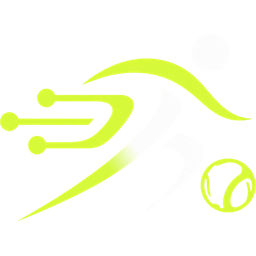
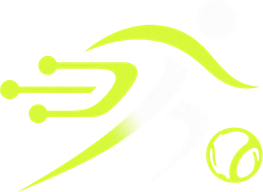
Estrela não desmarca ao tocar de novo; quem chega pelo link reaproveita o cadastro pelo WhatsApp
Claude-Session: https://claude.ai/code/session_01HtYkLJfd4uep9dkMNWeD7S

diff --git a/src/app/p/[gid]/partidas/actions.ts b/src/app/p/[gid]/partidas/actions.ts
@@ -16,6 +16,7 @@ import { TEAM_PRESETS, drawTeams as runDraw, playerStrength, type DrawMode } fro
 import { groupStats } from "@/lib/stats";
 import { chargeMatchPlayers } from "@/lib/finance";
 import { ALL_TAGS } from "@/lib/ratings";
+import { findOrCreateGuestPlayer } from "@/lib/guest";
 
 const attendance = z.enum(["CONFIRMED", "DECLINED", "MAYBE", "PENDING", "WAITLIST"]);
 
@@ -375,9 +376,9 @@ export async function answerJoinRequest(gid: string, mid: string, rid: string, a
   if (!approve) {
     await db.joinRequest.update({ where: { id: rid }, data: { status: "REJECTED" } });
   } else {
-    const player = await db.player.create({ data: { groupId: gid, name: req.name, phone: req.phone, billingType: "PER_MATCH" } });
-    await setAttendance(mid, player.id, "CONFIRMED");
-    await db.joinRequest.update({ where: { id: rid }, data: { status: "APPROVED", playerId: player.id } });
+    const playerId = await findOrCreateGuestPlayer(gid, req.name, req.phone);
+    await setAttendance(mid, playerId, "CONFIRMED");
+    await db.joinRequest.update({ where: { id: rid }, data: { status: "APPROVED", playerId } });
   }
   refresh(gid);
 }

diff --git a/src/app/j/[code]/actions.ts b/src/app/j/[code]/actions.ts
@@ -5,7 +5,7 @@ import { redirect } from "next/navigation";
 import { z } from "zod";
 import { db } from "@/lib/db";
 import { setAttendance } from "@/lib/attendance";
-import { forgetPlayer, rememberPlayer } from "@/lib/guest";
+import { findOrCreateGuestPlayer, forgetPlayer, rememberPlayer } from "@/lib/guest";
 import { notifyGroupOrganizers } from "@/lib/notify";
 import { type ActionState } from "@/lib/actions";
 
@@ -41,8 +41,7 @@ export async function guestRespond(code: string, _: ActionState, form: FormData)
       await notifyGroupOrganizers(match.groupId, { type: "JOIN_REQUEST", title: `🙋 ${n.data.name} pediu vaga na partida`, link: `/p/${match.groupId}/partidas/${match.id}` });
       redirect(`/j/${code}?pedido=1`);
     }
-    const p = await db.player.create({ data: { groupId: match.groupId, name: n.data.name, phone: n.data.phone ?? null, billingType: "PER_MATCH" } });
-    playerId = p.id;
+    playerId = await findOrCreateGuestPlayer(match.groupId, n.data.name, n.data.phone);
   }
   await setAttendance(match.id, playerId, s.data);
   await rememberPlayer(match.groupId, playerId);

diff --git a/src/components/Logo.tsx b/src/components/Logo.tsx
@@ -3,14 +3,15 @@ import { APP_NAME } from "@/lib/actions";
 
 /** Símbolo do Jogus Connect (jogador com a bola). */
 export function LogoMark({ size = 28, className = "" }: { size?: number; className?: string }) {
-  return <img src="/brand/mark.png" width={size} height={size} alt="" aria-hidden className={`shrink-0 ${className}`} />;
+  // a arte é mais larga que alta (681 × 498)
+  return <img src="/brand/mark.png" width={Math.round(size * 1.37)} height={size} alt="" aria-hidden className={`shrink-0 ${className}`} />;
 }
 
 /** Cabeçalho: símbolo + nome, no estilo do logo ("JO" em verde-limão). */
 export function Logo({ className = "" }: { className?: string }) {
   return (
     <span className={`inline-flex items-center gap-2 ${className}`} aria-label={APP_NAME}>
-      <LogoMark size={34} />
+      <LogoMark size={30} />
       <span className="flex flex-col leading-none" aria-hidden>
         <span className="font-display text-xl font-bold uppercase tracking-[0.04em]">
           <span className="text-accent">Jo</span>gus

diff --git a/src/lib/guest.ts b/src/lib/guest.ts
@@ -26,3 +26,18 @@ export async function rememberPlayer(groupId: string, playerId: string) {
 export async function forgetPlayer(groupId: string) {
   (await cookies()).delete(cookieName(groupId));
 }
+
+/** Quem chega pelo link ou pela busca: reaproveita o jogador com o mesmo WhatsApp, senão cria. */
+export async function findOrCreateGuestPlayer(groupId: string, name: string, phone?: string | null) {
+  const digits = phone?.replace(/\D/g, "") ?? "";
+  if (digits.length >= 8) {
+    const same = await db.player.findMany({ where: { groupId, phone: { not: null } }, select: { id: true, phone: true, active: true } });
+    const hit = same.find((p) => p.phone!.replace(/\D/g, "").endsWith(digits.slice(-8)));
+    if (hit) {
+      if (!hit.active) await db.player.update({ where: { id: hit.id }, data: { active: true } });
+      return hit.id;
+    }
+  }
+  const p = await db.player.create({ data: { groupId, name, phone: phone || null, billingType: "PER_MATCH" } });
+  return p.id;
+}

diff --git a/src/components/StarInput.tsx b/src/components/StarInput.tsx
@@ -17,7 +17,7 @@ export function StarInput({ name, label, defaultValue, size = 28, required }: { 
             role="radio"
             aria-checked={v === i}
             aria-label={`${i} estrela${i > 1 ? "s" : ""}`}
-            onClick={() => setV(v === i ? 0 : i)}
+            onClick={() => setV(i)}
             className="p-0.5 transition active:scale-90"
           >
             <StarIcon size={size} fill={v >= i ? 1 : 0} />
